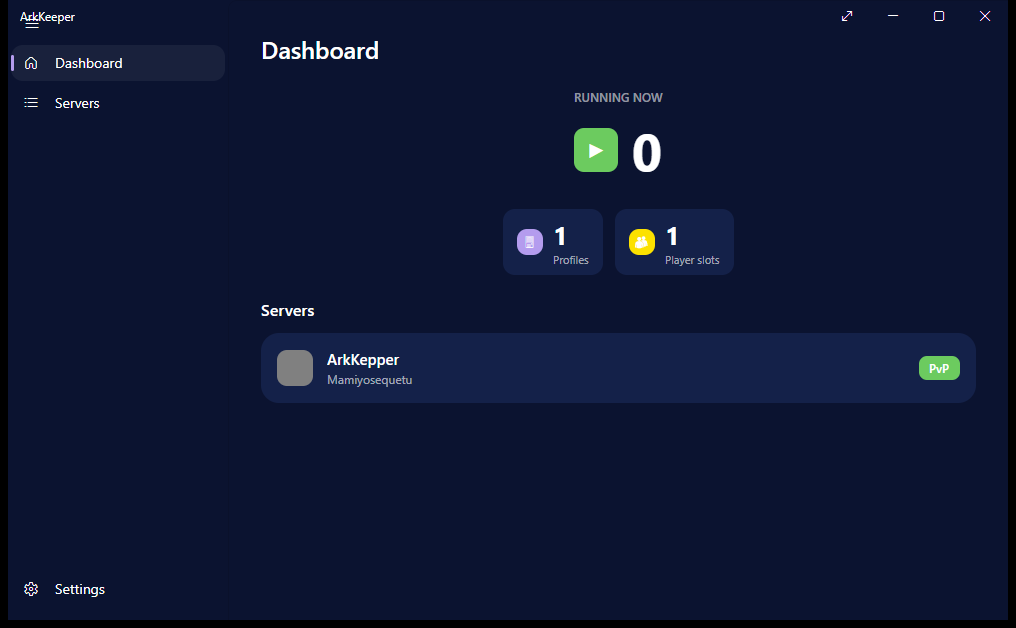
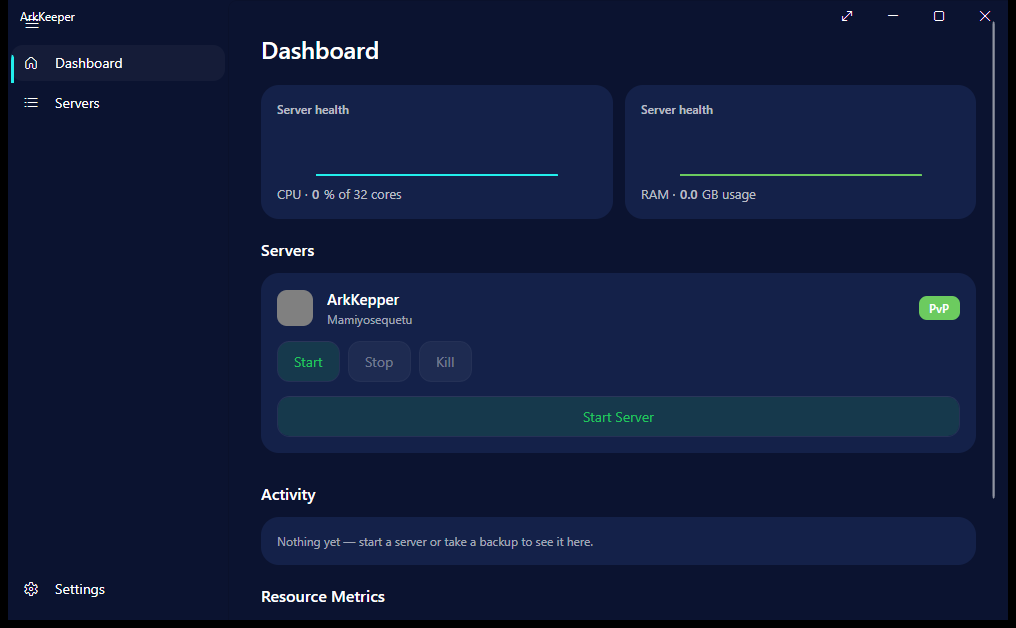
Bump to 1.1.0: new screenshots, changelog entry, README updates
Fresh screenshots across all three themes reflecting the redesigned
Dashboard, plus a fixed mislabeled alt-text on the OLED dashboard shot
(said "Servers page") found while updating them.

diff --git a/src/ArkKeeper.App/Services/ChangelogEntry.cs b/src/ArkKeeper.App/Services/ChangelogEntry.cs
@@ -8,6 +8,13 @@ public static class Changelog
 {
     public static IReadOnlyList<ChangelogEntry> Entries { get; } =
     [
+        new ChangelogEntry("1.1.0", "2026-09-04",
+        [
+            "Redesigned Dashboard: real CPU/RAM usage per server with trend sparklines, an activity feed of real events (starts, stops, backups), and Resource Metrics cards.",
+            "Fixed mods never actually reaching the server — Workshop downloads used the wrong Steam app id and were never copied into ShooterGame/Content/Mods, so a configured mod silently did nothing.",
+            "Fixed the Dashboard's CPU% readout appearing frozen while its trend graph kept moving.",
+            "Fixed switching back to the Light theme leaving every card tinted with the previous theme's color.",
+        ]),
         new ChangelogEntry("1.0.0", "2026-09-04",
         [
             "First release — full server management covering all ~226 GameUserSettings.ini/Game.ini settings, real start/stop/kill process control, and config that's actually written to the server's own files.",

diff --git a/README.md b/README.md
@@ -15,6 +15,7 @@ ArkKeeper is a **modernization and optimization** of [ARK Server Manager](https:
 
 ## Features
 
+- **Live dashboard** — real CPU/RAM usage per server (sampled from the actual OS process, not estimated), trend sparklines, and an activity feed of what your servers have actually been doing (starts, stops, backups).
 - **Server management** — create and edit any number of server profiles, covering all ~226 `GameUserSettings.ini`/`Game.ini` settings ARK exposes (rates & multipliers, rules, structures, taming, PvP, engrams, world/environment, chat, raw override lists), not just a curated subset. Settings are merged into the server's real config files rather than overwriting them, so manual edits and mod-added directives survive.
 - **Real process control** — Start / Stop / Kill against the actual dedicated server process. Stop asks the server to save and exit gracefully over RCON first, falling back to a hard kill if RCON is unreachable or the timeout elapses.
 - **Anti-cheat & performance** — toggle BattlEye off per server, and tune OS process priority and CPU core affinity without leaving the app.
@@ -31,7 +32,7 @@ ArkKeeper is a **modernization and optimization** of [ARK Server Manager](https:
 
 | Navy Blue | OLED Black | Light |
 |---|---|---|
-| ![Dashboard, Navy Blue theme](docs/screenshots/dashboard-navy.png) | ![Servers page, OLED Black theme](docs/screenshots/dashboard-oled.png) | ![Dashboard, Light theme](docs/screenshots/dashboard-light.png) |
+| ![Dashboard, Navy Blue theme](docs/screenshots/dashboard-navy.png) | ![Dashboard, OLED Black theme](docs/screenshots/dashboard-oled.png) | ![Dashboard, Light theme](docs/screenshots/dashboard-light.png) |
 | ![Servers page, Navy Blue theme](docs/screenshots/servers-navy.png) | ![Servers page, OLED Black theme](docs/screenshots/servers-oled.png) | ![Servers page, Light theme](docs/screenshots/servers-light.png) |
 
 Theme picker in Settings:
